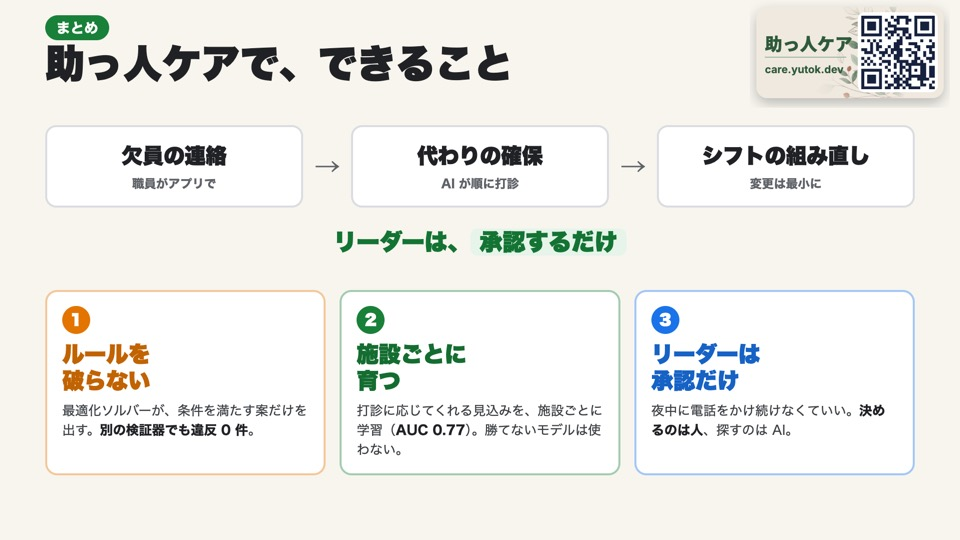
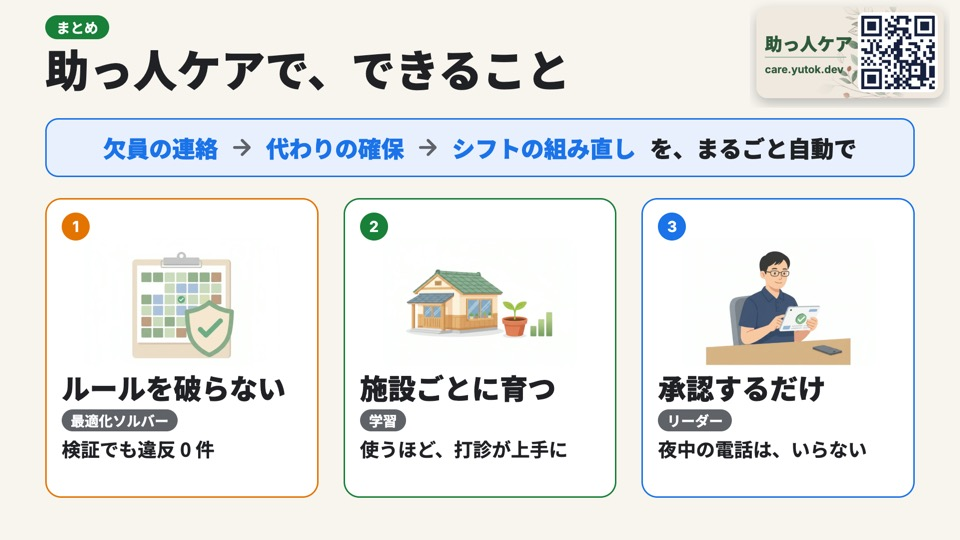
feat(sukettocare): まとめをイラストつきに作り直し、14枚目の原稿を差し替え、発表者画面で原稿の文字の大きさを変えられるように

diff --git a/sukettocare/slides/sum.html b/sukettocare/slides/sum.html
@@ -1,47 +1,41 @@
-<!doctype html>
-<html lang="ja">
-<head>
-<meta charset="utf-8">
-<meta name="robots" content="noindex">
+<!doctype html><html lang="ja"><head><meta charset="utf-8"><meta name="robots" content="noindex">
+<link href="https://fonts.googleapis.com/css2?family=Noto+Sans+JP:wght@400;500;700;900&family=Inter:wght@700&display=swap" rel="stylesheet"><link href="fonts/ms.css" rel="stylesheet"><link rel="stylesheet" href="common.css">
 <title>まとめ</title>
-<link rel="stylesheet" href="ar-common.css">
 <style>
-  .eb { background:#188038; } .tt { font-size:78px; }
-  .flow { position:absolute; left:90px; top:250px; width:1740px; display:flex; align-items:center; gap:22px; }
-  .st { flex:1; background:#fff; border:4px solid #DADCE0; border-radius:22px; padding:26px 26px; text-align:center; }
-  .st b { display:block; font-size:42px; font-weight:900; }
-  .st small { display:block; font-size:24px; color:var(--mute); margin-top:6px; font-weight:700; }
-  .arr { font-size:52px; font-weight:900; color:#5F6368; }
-  .ok { position:absolute; left:90px; top:450px; width:1740px; text-align:center; font-size:46px; font-weight:900; color:#137333; }
-  .ok em { font-style:normal; background:#E6F4EA; border-radius:14px; padding:4px 18px; }
-  .cards { position:absolute; left:90px; top:580px; width:1740px; display:grid; grid-template-columns:repeat(3, 1fr); gap:28px; }
-  .cd { background:#fff; border:4px solid color-mix(in srgb, var(--c) 40%, #fff); border-radius:24px; padding:28px 30px; min-height:330px; }
-  .cd .n { width:56px; height:56px; border-radius:50%; background:var(--c); color:#fff; font-size:30px; font-weight:900; display:flex; align-items:center; justify-content:center; margin-bottom:14px; }
-  .cd b { display:block; font-size:44px; font-weight:900; color:color-mix(in srgb, var(--c) 85%, #000); line-height:1.2; }
-  .cd p { font-size:26px; line-height:1.5; color:var(--sub); margin-top:14px; }
-  .cd p strong { color:var(--ink); }
-  .rv { opacity:0; transform:translateY(16px); transition:opacity .55s ease, transform .55s ease; }
-  .rv.on { opacity:1; transform:none; }
-</style>
-</head>
+.ms{font-family:"Material Symbols Rounded";font-weight:normal;font-style:normal;font-size:44px;line-height:1;display:inline-block;white-space:nowrap;font-feature-settings:"liga";vertical-align:middle}
+body{background:#F7F5EE}
+.eb{position:absolute;left:90px;top:30px;font-size:28px;font-weight:700;color:#fff;border-radius:999px;padding:4px 22px;font-family:"Noto Sans JP",Inter;background:#188038}
+.tt{position:absolute;left:90px;top:88px;font-size:88px;font-weight:900;line-height:1.1;white-space:nowrap;color:#202124}
+/* 上: できること（流れ） */
+.band{position:absolute;left:90px;top:236px;width:1740px;height:118px;background:#E8F0FE;border:3px solid #1A73E8;border-radius:26px;display:flex;align-items:center;justify-content:center;gap:22px;font-size:46px;font-weight:900;color:#1A73E8}
+.band .ms{font-size:52px;color:#5F6368}
+.band .all{color:#202124;margin-left:6px}
+/* 下: すごいところ（イラストの札） */
+.row{position:absolute;left:90px;top:396px;width:1740px;display:flex;gap:50px}
+.cd{flex:1;background:#fff;border:3px solid;border-radius:32px;padding:26px 30px;height:600px;position:relative}
+.n{font-family:Inter;font-weight:700;font-size:30px;color:#fff;width:56px;height:56px;border-radius:50%;display:flex;align-items:center;justify-content:center}
+.il{display:flex;justify-content:center;margin:-6px 0 8px}
+.il img{width:390px;height:260px;border-radius:20px;object-fit:cover}
+.cd h3{font-size:56px;font-weight:900;margin-bottom:12px;line-height:1.15}
+.who{display:inline-block;font-size:28px;font-weight:700;color:#fff;background:#5F6368;border-radius:999px;padding:2px 18px;margin-bottom:8px}
+.cd p{font-size:38px;line-height:1.4;color:#202124;font-weight:700}
+</style></head>
 <body>
 <div class="eb">まとめ</div>
 <div class="tt">助っ人ケアで、できること</div>
-<img class="badge" src="badge.png" alt="">
 
-<div class="flow rv" data-cue="0">
-  <div class="st"><b>欠員の連絡</b><small>職員がアプリで</small></div><div class="arr">→</div>
-  <div class="st"><b>代わりの確保</b><small>AI が順に打診</small></div><div class="arr">→</div>
-  <div class="st"><b>シフトの組み直し</b><small>変更は最小に</small></div>
-</div>
-<div class="ok rv" data-cue="0">リーダーは、<em>承認するだけ</em></div>
+<div class="band rv" data-cue="0">欠員の連絡<span class="ms">arrow_forward</span>代わりの確保<span class="ms">arrow_forward</span>シフトの組み直し<span class="all">を、まるごと自動で</span></div>
 
-<div class="cards">
-  <div class="cd rv" data-cue="1" style="--c:#E37400; transition-delay:0s"><div class="n">1</div><b>ルールを<br>破らない</b><p>最適化ソルバーが、条件を満たす案だけを出す。<strong>別の検証器でも違反 0 件</strong>。</p></div>
-  <div class="cd rv" data-cue="1" style="--c:#188038; transition-delay:.15s"><div class="n">2</div><b>施設ごとに<br>育つ</b><p>打診に応じてくれる見込みを、施設ごとに学習（<strong>AUC 0.77</strong>）。勝てないモデルは使わない。</p></div>
-  <div class="cd rv" data-cue="1" style="--c:#1A73E8; transition-delay:.3s"><div class="n">3</div><b>リーダーは<br>承認だけ</b><p>夜中に電話をかけ続けなくていい。<strong>決めるのは人</strong>、探すのは AI。</p></div>
+<div class="row">
+  <div class="cd rv" data-cue="1" style="border-color:#E37400"><div class="n" style="background:#E37400">1</div>
+    <div class="il"><img src="s1.jpg" alt=""></div><h3>ルールを破らない</h3><div class="who">最適化ソルバー</div><p>検証でも違反 0 件</p></div>
+  <div class="cd rv" data-cue="1" style="border-color:#188038;transition-delay:.15s"><div class="n" style="background:#188038">2</div>
+    <div class="il"><img src="s2.jpg" alt=""></div><h3>施設ごとに育つ</h3><div class="who">学習</div><p>使うほど、打診が上手に</p></div>
+  <div class="cd rv" data-cue="1" style="border-color:#1A73E8;transition-delay:.3s"><div class="n" style="background:#1A73E8">3</div>
+    <div class="il"><img src="s3.jpg" alt=""></div><h3>承認するだけ</h3><div class="who">リーダー</div><p>夜中の電話は、いらない</p></div>
 </div>
+
+<img src="badge.png" alt="" style="position:absolute;left:1500px;top:0;width:400px;height:215px;z-index:50">
 <script>window.STEPS = [[[0, 0]], [[1, 0]]];</script>
 <script src="stepper.js"></script>
-</body>
-</html>
+</body></html>

diff --git a/sukettocare/presenter.html b/sukettocare/presenter.html
@@ -24,7 +24,7 @@
   #script { overflow:auto; min-height:0; }
   #title { font-size:18px; color:var(--sub); margin-bottom:10px; }
   #title b { color:var(--ink); }
-  .line { font-size:34px; line-height:1.6; padding:6px 14px; margin:0 -14px 6px; border-radius:10px; color:#c9ced4; }
+  .line { font-size:var(--fs, 34px); line-height:1.6; padding:6px 14px; margin:0 -14px 6px; border-radius:10px; color:#c9ced4; }
   .line.now { color:#fff; background:rgba(255,214,102,.12); box-shadow:inset 4px 0 0 var(--now); }
   .line.done { color:#6c747d; }
   aside { display:flex; flex-direction:column; gap:14px; min-height:0; overflow:auto; }
@@ -74,7 +74,7 @@
   <button data-a="prev">← 戻る</button><button data-a="next">次へ →</button>
   <button data-a="start">タイマー開始 (S)</button><button data-a="reset">タイマーを 0 に (T)</button>
   <button data-a="replay">映像を最初から (R)</button><button data-a="black">黒画面 (B)</button>
-  <button id="editBtn">原稿を編集 (E)</button><button data-a="swap">表示を入れ替え (X)</button><button data-a="full">この画面を全画面 (F)</button>
+  <button id="fsDown" title="文字を小さく（-）">A−</button><button id="fsUp" title="文字を大きく（+）">A＋</button><button id="editBtn">原稿を編集 (E)</button><button data-a="swap">表示を入れ替え (X)</button><button data-a="full">この画面を全画面 (F)</button>
   <button id="openDeck2">スライドを外のモニターに出す</button>
   
   <span id="warn"></span>
@@ -218,6 +218,12 @@ else { if (window.opener) window.opener.postMessage({ type: 'hello' }, '*'); if 
 setInterval(tick, 1000);
 $('warn').textContent = '';
 $('editBtn').addEventListener('click', toggleEdit);
+// 原稿の文字の大きさ（このブラウザに覚える）
+let FS = 34; try { FS = +localStorage.getItem('sukettocare-fs') || 34; } catch (e) {}
+function setFs(v) { FS = Math.max(18, Math.min(60, v)); document.documentElement.style.setProperty('--fs', FS + 'px'); try { localStorage.setItem('sukettocare-fs', FS); } catch (e) {} }
+setFs(FS);
+$('fsDown').addEventListener('click', () => setFs(FS - 2)); $('fsUp').addEventListener('click', () => setFs(FS + 2));
+addEventListener('keydown', (e) => { if (e.target && e.target.isContentEditable) return; if (e.key === '-' ) { e.preventDefault(); setFs(FS - 2); } if (e.key === '+' || e.key === '=' || e.key === ';') { e.preventDefault(); setFs(FS + 2); } });
 updateTotal();
 </script>
 </body>

diff --git a/sukettocare/data.js b/sukettocare/data.js
@@ -238,22 +238,22 @@ window.DECK=[
   "id": "ar",
   "title": "Google Cloud で動く仕組み",
   "lines": [
-   "画面は Firebase Hosting の CDN から。API は Cloud Armor の WAF とロードバランサを通り、データは Firestore へ。",
-   "組むのは、Cloud Run 上の最適化ソルバー。ルールを破る案は出しません。",
+   "WAF、ALB、Cloud Run で動かし、Firebase Hosting で配信。",
+   "シフトを組むのは、Cloud Run 上の最適化ソルバー。ルールを破る案は出しません。",
    "Gemini は、言葉をルールに翻訳し、理由を説明。個人情報は、Sensitive Data Protection で伏せて渡します。",
    "打診の結果は Pub/Sub から BigQuery へ。記録から学習し、施設ごとに最適化されていきます。",
    "AI は提案。正しさはソルバー。決めるのは、人です。"
   ],
-  "target": 47.4,
+  "target": 41.5,
   "clip": 44.94,
   "lineStart": [
    0.0,
-   14.7,
-   21.6,
-   33.4,
-   42.8
+   7.8,
+   15.5,
+   27.4,
+   36.9
   ],
-  "cumEnd": 206.7,
+  "cumEnd": 200.8,
   "kind": "html",
   "src": "slides/ar-d.html",
   "steps": true
@@ -273,7 +273,7 @@ window.DECK=[
    0.0,
    8.8
   ],
-  "cumEnd": 221.2
+  "cumEnd": 215.3
  },
  {
   "id": "cl",
@@ -289,7 +289,7 @@ window.DECK=[
    9.8
   ],
   "rate": 1.0,
-  "cumEnd": 234.5
+  "cumEnd": 228.6
  },
  {
   "id": "qa",
@@ -333,7 +333,7 @@ window.DECK=[
    }
   ],
   "target": 0,
-  "cumEnd": 234.5,
+  "cumEnd": 228.6,
   "lineStart": [
    0
   ]
@@ -348,7 +348,7 @@ window.DECK=[
    "作る（Terraform・GitHub Actions）→ 出す（Cloud Build・Artifact Registry・プレビュー）→ 見守る（Cloud Monitoring・Cloud Logging・AI の品質）。守るは IAM の最小権限。"
   ],
   "target": 0,
-  "cumEnd": 234.5,
+  "cumEnd": 228.6,
   "lineStart": [
    0
   ]
@@ -363,7 +363,7 @@ window.DECK=[
    "（クリックした所を拡大、もう一度クリックで戻る）"
   ],
   "target": 0,
-  "cumEnd": 234.5,
+  "cumEnd": 228.6,
   "lineStart": [
    0
   ]
@@ -383,7 +383,7 @@ window.DECK=[
    0,
    0
   ],
-  "cumEnd": 234.5,
+  "cumEnd": 228.6,
   "kind": "html",
   "src": "slides/sv3.html",
   "steps": true,

diff --git a/sukettocare/slides/ar-step.js b/sukettocare/slides/ar-step.js
@@ -1,7 +1,7 @@
 // 15枚目の段階表示: 原稿の1文ごとに、その文で話すサービスと、その層を強調する。最後の段で全体とまとめ。
 (function () {
   const STEPS = [
-    ['hosting', 'armor', 'alb', 'firestore'], // 画面は CDN、API は WAF と ALB、データは Firestore
+    ['armor', 'alb', 'run', 'hosting'],     // WAF、ALB、Cloud Run で動かし、Firebase Hosting で配信
     ['run'],                               // Cloud Run 上の最適化ソルバー
     ['gemini', 'sdp'],                     // Gemini（Vertex AI）、Sensitive Data Protection
     ['pubsub', 'bq', 'pipe'],              // Pub/Sub → BigQuery → 学習

diff --git a/sukettocare/原稿.md b/sukettocare/原稿.md
@@ -1,4 +1,4 @@
-# 助っ人ケア 発表原稿（3:55・約1,261字）
+# 助っ人ケア 発表原稿（3:49・約1,226字）
 
 制限 4:00。（目安の秒数／そのページを終える目安の経過時間）
 
@@ -76,20 +76,20 @@
 - 足りなければ、ほかのユニットに応援を打診。
 - すべての時間で、人数が足りた状態にします。
 
-## 14. Google Cloud で動く仕組み（47秒／ここまで 3:27）
+## 14. Google Cloud で動く仕組み（42秒／ここまで 3:21）
 
-- 画面は Firebase Hosting の CDN から。API は Cloud Armor の WAF とロードバランサを通り、データは Firestore へ。
-- 組むのは、Cloud Run 上の最適化ソルバー。ルールを破る案は出しません。
+- WAF、ALB、Cloud Run で動かし、Firebase Hosting で配信。
+- シフトを組むのは、Cloud Run 上の最適化ソルバー。ルールを破る案は出しません。
 - Gemini は、言葉をルールに翻訳し、理由を説明。個人情報は、Sensitive Data Protection で伏せて渡します。
 - 打診の結果は Pub/Sub から BigQuery へ。記録から学習し、施設ごとに最適化されていきます。
 - AI は提案。正しさはソルバー。決めるのは、人です。
 
-## 15. まとめ（14秒／ここまで 3:41）
+## 15. まとめ（14秒／ここまで 3:35）
 
 - 助っ人ケアなら、欠員の連絡から、代わりの確保、シフトの組み直しまで、リーダーは承認するだけです。
 - ルールは破らず、施設ごとの傾向を学んで、使うほど賢くなります。
 
-## 16. 締め（13秒／ここまで 3:54）
+## 16. 締め（13秒／ここまで 3:49）
 
 - あの夜を、終わらせたい。電話をかけ続ける人を、もう、ひとりにしない。助っ人ケアが、その仕事を引き受けます。
 - ご覧いただき、ありがとうございました。
